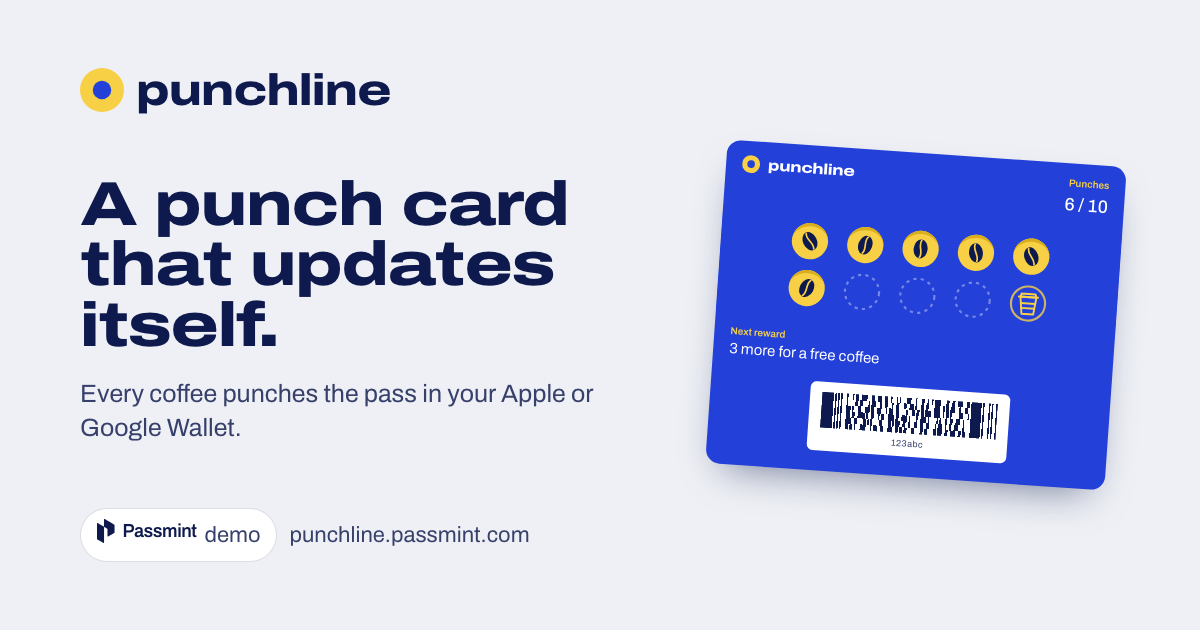
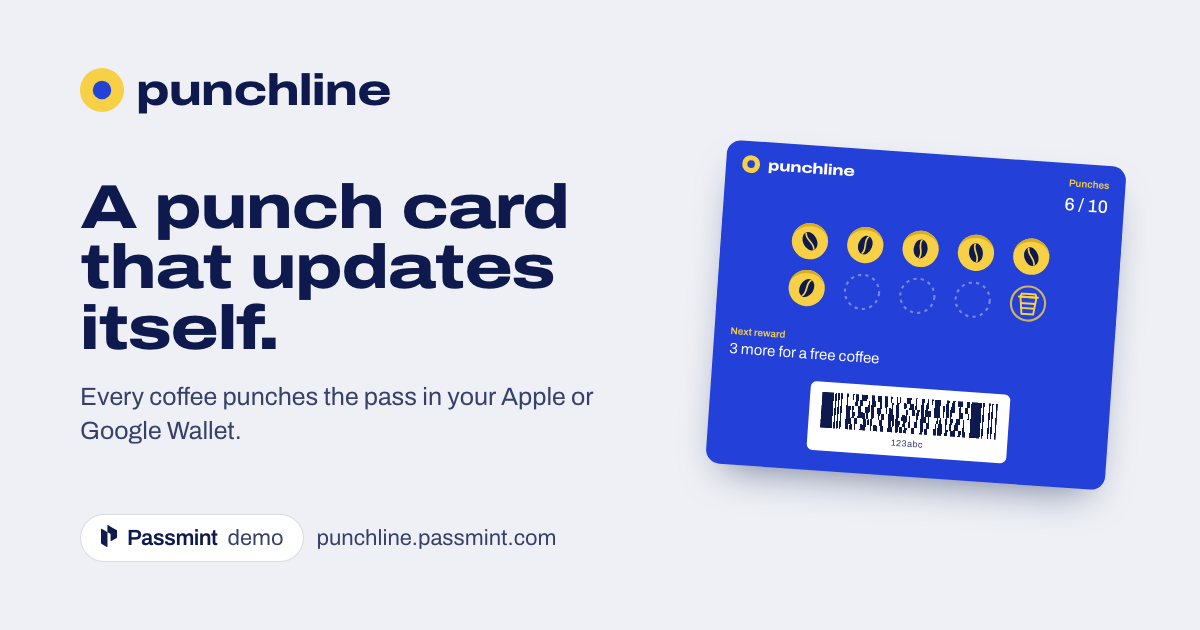
Align the Passmint badge in the share image
The shared lockup's wordmark is a fixed size, so it sat off the baseline of "demo" and the URL. The badge now sizes the mark, name and label together.

diff --git a/app/routes/og.tsx b/app/routes/og.tsx
@@ -26,10 +26,13 @@ export default function OgImage() {
           </p>
         </div>
         <div className="flex items-center gap-3 text-[22px] text-ink-600">
-          <span className="flex items-center gap-2 rounded-full border border-ink-900/15 bg-white px-4 py-2 text-ink-900">
-            <span className="[&_svg]:h-6">
-              <PassmintMark />
+          {/* Built here rather than with the shared lockup, whose wordmark is a
+              fixed size: mark, name and "demo" share one size and baseline. */}
+          <span className="flex items-center gap-2.5 rounded-full border border-ink-900/15 bg-white px-5 py-2.5 leading-none">
+            <span className="text-ink-900 [&_svg]:h-[22px]">
+              <PassmintMark wordmark={false} />
             </span>
+            <span className="font-semibold tracking-tight text-ink-900">Passmint</span>
             <span className="text-ink-600">demo</span>
           </span>
           <span>punchline.passmint.com</span>
